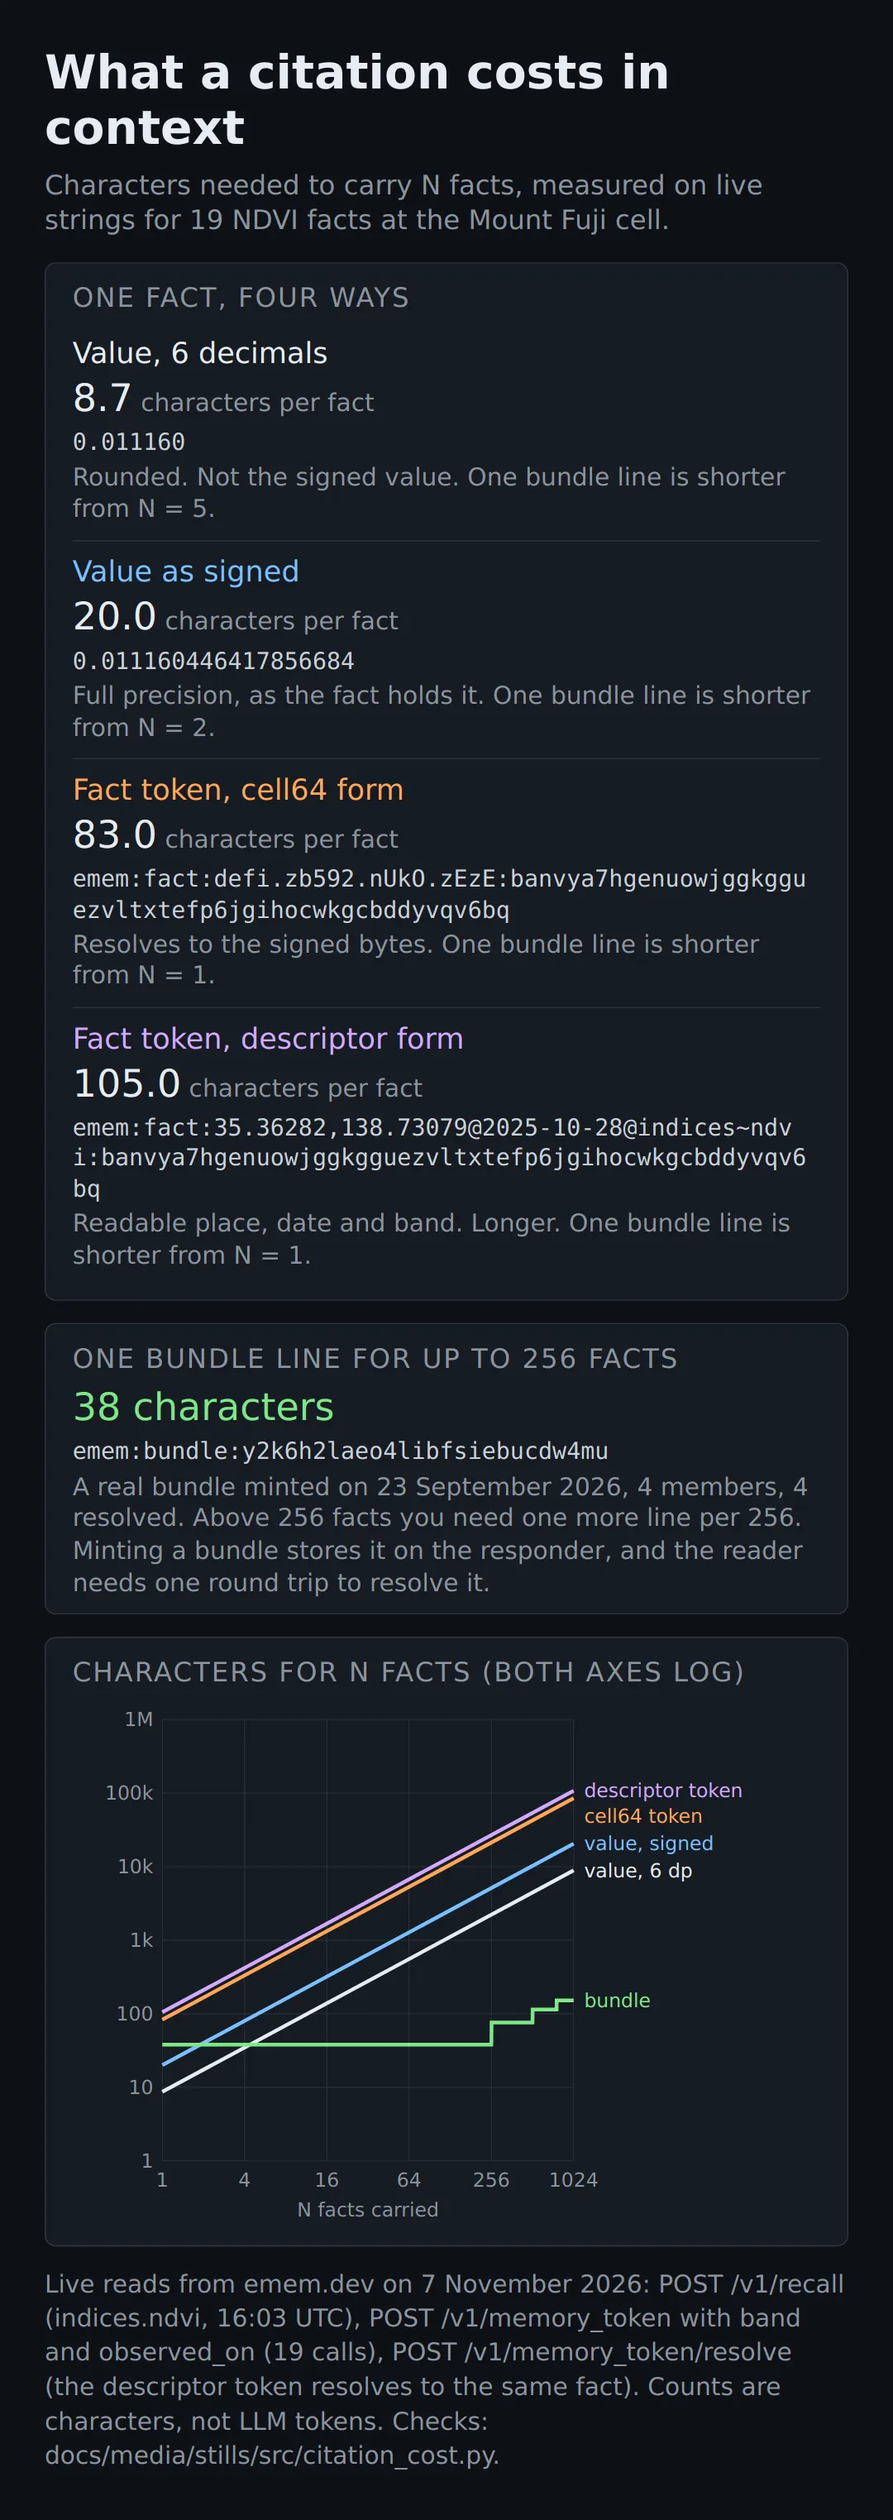
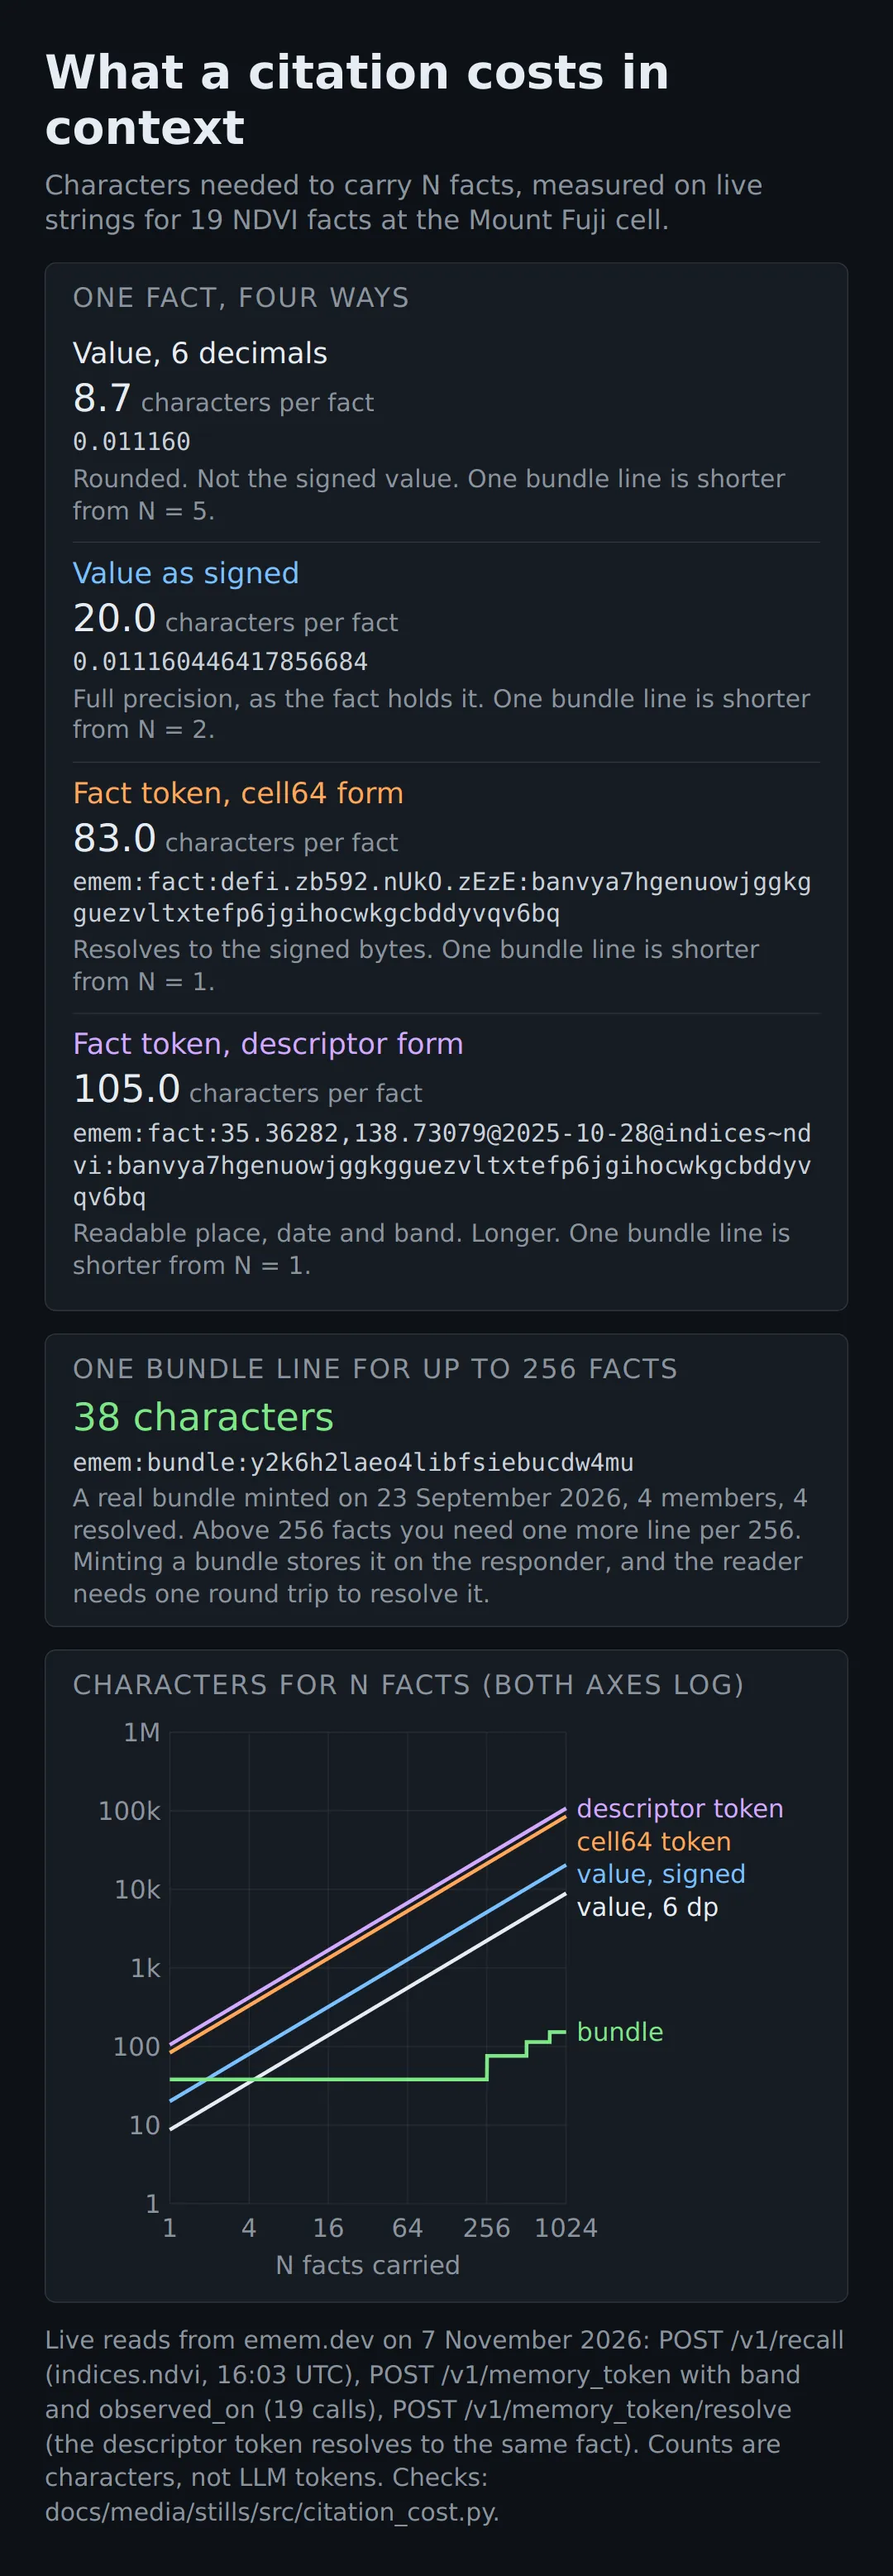
Measure still text on a phone and raise two stills to the floor
A phone shows a still in a column about 360 px wide. text_floor.py runs
each still renderer with a patched screenshot that reads every text run
at its rendered size, SVG text scaled by its transform, and fails below
9.9 px on that column (22 px on an 800 px page).

Two stills were below it. citation-cost.webp drew its chart labels at
17.4 px because the 1000 wide view box shrinks to about 670 px; the
chart font is now 34 and the label gaps grow to match. method-selection
had 19 to 21 px table heads, flags and values; all are 22 now. Both were
re-rendered from saved data and looked at. All 25 stills now pass.

diff --git a/docs/media/stills/src/text_floor.py b/docs/media/stills/src/text_floor.py
@@ -1,0 +1,100 @@
+"""Measure the smallest text in each still as a phone shows it.
+
+Each still renderer runs as usual, but writes to a temporary file. Before the
+screenshot, the page reports every text run with its rendered size in CSS px
+(an SVG text size is scaled by its transform to the screen). A phone shows the
+page width in a column of PHONE_COLUMN px, so a size of s px shows as
+s * PHONE_COLUMN / page width.
+
+Usage, from the repository root (needs Playwright and Pillow):
+
+    python docs/media/stills/src/text_floor.py            # all stills
+    python docs/media/stills/src/text_floor.py hero.py    # one renderer
+
+Exit status 1 when a still has text smaller than FLOOR on the phone.
+"""
+
+import runpy
+import sys
+import tempfile
+from pathlib import Path
+
+from playwright.sync_api import Page
+
+HERE = Path(__file__).resolve().parent
+PHONE_COLUMN = 360
+FLOOR = 9.9  # 22 CSS px on a page 800 px wide
+
+# Renderers and the arguments that draw the phone copy, when there is one.
+# The 1800 px desktop copies of hero and what-crosses are not shown on a phone.
+RUNS = {
+    "hero.py": ["--phone"],
+    "what_crosses.py": ["--phone"],
+}
+SKIP = {"check_media.py", "recheck.py", "text_floor.py", "receipt_data.py", "wire_data.py"}
+
+MEASURE = """() => {
+  const out = [];
+  const walk = document.createTreeWalker(document.body, NodeFilter.SHOW_TEXT);
+  while (walk.nextNode()) {
+    const t = walk.currentNode.textContent.trim();
+    if (!t) continue;
+    const el = walk.currentNode.parentElement;
+    const cs = getComputedStyle(el);
+    if (cs.display === 'none' || cs.visibility === 'hidden') continue;
+    let size = parseFloat(cs.fontSize);
+    const svgText = el.closest('text');
+    if (svgText && svgText.getScreenCTM) {
+      const m = svgText.getScreenCTM();
+      size *= Math.sqrt(m.a * m.a + m.b * m.b);
+    }
+    out.push([size, t.slice(0, 40)]);
+  }
+  return [document.documentElement.clientWidth, out];
+}"""
+
+found = []
+_orig = Page.screenshot
+
+
+def _measure(self, *a, **k):
+    width, runs = self.evaluate(MEASURE)
+    found.append((width, runs))
+    return _orig(self, *a, **k)
+
+
+def measure(name):
+    found.clear()
+    Page.screenshot = _measure
+    with tempfile.TemporaryDirectory() as tmp:
+        argv = [str(HERE / name), str(Path(tmp) / "out.webp"), *RUNS.get(name, [])]
+        saved = sys.argv
+        sys.argv = argv
+        try:
+            runpy.run_path(argv[0], run_name="__main__")
+        finally:
+            sys.argv = saved
+            Page.screenshot = _orig
+    width, runs = found[-1]
+    scale = PHONE_COLUMN / width
+    size, text = min(runs)
+    return round(size * scale, 1), round(size, 1), width, text
+
+
+def main():
+    names = sys.argv[1:] or sorted(
+        p.name for p in HERE.glob("*.py") if p.name not in SKIP and not p.name.startswith("fetch_")
+    )
+    bad = 0
+    for name in names:
+        phone, css, width, text = measure(name)
+        flag = "LOW" if phone < FLOOR else "ok"
+        bad += flag == "LOW"
+        print(f"{flag:3} {name:22} {phone:5} px on a {PHONE_COLUMN} px column "
+              f"({css} px on a {width} px page): {text!r}", flush=True)
+    print(f"{len(names)} stills measured, {bad} below {FLOOR} px")
+    sys.exit(1 if bad else 0)
+
+
+if __name__ == "__main__":
+    main()

diff --git a/docs/media/stills/src/citation_cost.py b/docs/media/stills/src/citation_cost.py
@@ -65,7 +65,7 @@ cross = {k[0]: next(n for n in range(1, 300) if bundle_chars(n) < n * k[2]) for 
 assert cross["Fact token, cell64 form"] == 1
 
 # Chart: x is N on a log2 axis (1..1024), y is characters on a log10 axis (1..1e6).
-W, H, L, R, T, Bm = 1000, 700, 120, 330, 30, 80
+W, H, L, R, T, Bm = 1000, 760, 130, 340, 30, 100
 pw, ph = W - L - R, H - T - Bm
 
 
@@ -77,15 +77,15 @@ def Y(c):
     return T + ph * (1 - math.log10(c) / 6)
 
 
-svg = [f'<svg viewBox="0 0 {W} {H}" width="100%" font-family="DejaVu Sans" font-size="26">']
+svg = [f'<svg viewBox="0 0 {W} {H}" width="100%" font-family="DejaVu Sans" font-size="34">']
 for e in range(0, 7):
     y = Y(10 ** e)
     svg.append(f'<line x1="{L}" x2="{L + pw}" y1="{y}" y2="{y}" stroke="#30363d"/>')
-    svg.append(f'<text x="{L - 12}" y="{y + 9}" fill="#8b949e" text-anchor="end">'
+    svg.append(f'<text x="{L - 12}" y="{y + 12}" fill="#8b949e" text-anchor="end">'
                f'{["1", "10", "100", "1k", "10k", "100k", "1M"][e]}</text>')
 for n in (1, 4, 16, 64, 256, 1024):
     svg.append(f'<line x1="{X(n)}" x2="{X(n)}" y1="{T}" y2="{T + ph}" stroke="#30363d"/>')
-    svg.append(f'<text x="{X(n)}" y="{T + ph + 34}" fill="#8b949e" text-anchor="middle">{n}</text>')
+    svg.append(f'<text x="{X(n)}" y="{T + ph + 44}" fill="#8b949e" text-anchor="middle">{n}</text>')
 svg.append(f'<text x="{L + pw / 2}" y="{H - 6}" fill="#8b949e" text-anchor="middle">N facts carried</text>')
 ends = []
 for label, col, per, _, _ in kinds:
@@ -100,9 +100,9 @@ ends.append((Y(bundle_chars(1024)), "#7ee787", "bundle"))
 ends.sort()
 last = -1e9
 for y, col, lab in ends:
-    y = max(y, last + 34)
+    y = max(y, last + 44)
     last = y
-    svg.append(f'<text x="{X(1024) + 14}" y="{y + 9}" fill="{col}">{lab}</text>')
+    svg.append(f'<text x="{X(1024) + 14}" y="{y + 12}" fill="{col}">{lab}</text>')
 svg.append("</svg>")
 
 rows = "".join(
@@ -124,7 +124,7 @@ h1{{font-size:42px;line-height:1.2;margin:0 0 10px}}
 .h + .row{{border-top:none}}
 .lab{{font-size:26px}}
 .num{{font-size:34px}} .num span{{font-size:22px;color:#8b949e}}
-.ex{{font-size:21px;color:#c9d1d9;word-break:break-all;margin:4px 0}}
+.ex{{font-size:22px;color:#c9d1d9;word-break:break-all;margin:4px 0}}
 .note{{font-size:22px;color:#8b949e}}
 .big{{font-size:34px;color:#7ee787}}
 .foot{{color:#8b949e;font-size:22px;margin-top:6px;line-height:1.4}}

diff --git a/docs/media/stills/src/method_selection.py b/docs/media/stills/src/method_selection.py
@@ -143,18 +143,18 @@ h1{{font-size:40px;line-height:1.2;margin:0 0 10px}}
 .ph{{font-size:27px;margin-bottom:4px}}
 .sub{{font-size:23px;margin:18px 0 4px}}
 .g{{border-collapse:collapse;width:100%;font-size:22px;margin-top:10px}}
-.g th{{color:#8b949e;font-weight:normal;font-size:19px;text-align:left;padding:0 6px 6px 0;vertical-align:bottom}}
+.g th{{color:#8b949e;font-weight:normal;font-size:22px;text-align:left;padding:0 6px 6px 0;vertical-align:bottom}}
 .g td{{padding:3px 6px 3px 0;border-top:1px solid #30363d}}
 .n{{color:#8b949e;text-align:right;padding-right:24px!important}}
 .sq{{width:30px;height:22px;border-radius:4px}}
 .same{{background:#30363d}} .diff{{background:#ffa657}}
-.fl{{color:#ff7b72;font-size:20px}}
+.fl{{color:#ff7b72;font-size:22px}}
 .pair{{display:grid;grid-template-columns:120px 1fr 110px;align-items:center;gap:12px;margin:5px 0}}
 .bl{{color:#8b949e;font-size:22px}}
 .track{{background:#0d1117;border:1px solid #30363d;border-radius:4px;height:24px}}
 .fill{{height:100%;border-radius:3px}}
 .g0{{background:#79c0ff}} .g1{{background:#ffa657}} .g2{{background:#d2a8ff}}
-.pv{{font-size:21px;text-align:right}}
+.pv{{font-size:22px;text-align:right}}
 .axis{{position:relative;height:30px;border-bottom:1px solid #30363d}}
 .zero{{position:absolute;top:0;bottom:-6px;width:2px;background:#e6edf3}}
 .ci{{position:absolute;top:9px;height:12px;background:#ffa657;border-radius:6px;opacity:.85}}

diff --git a/docs/media/visual-language.md b/docs/media/visual-language.md
@@ -97,6 +97,16 @@ It fails when a still or a poster has a transparent pixel or a corner that is no
 on a width that these rules do not give. It fails when a diagram has no `#0d1117` rect over its full view box, or has
 text smaller than 16 px.
 
+Text in a still must stay readable on a phone. A phone shows a still in a column about 360 px wide. On that column,
+no text may be smaller than 9.9 px. On a still drawn 800 px wide, that is 22 px. Chart text inside an SVG counts at
+its drawn size, after the view box scales it. To measure every still, run its renderer and read the smallest text.
+This needs Playwright:
+
+    python docs/media/stills/src/text_floor.py
+
+On 7 November 2026, all 25 stills passed. The phone copies of the hero and `what-crosses` have their smallest
+text at 12.0 px. All other stills have theirs at 9.9 px.
+
 ## Media that follows these rules
 
 Each row gives the question the image answers and the page that shows it. Paths are relative to `docs/media/`.
